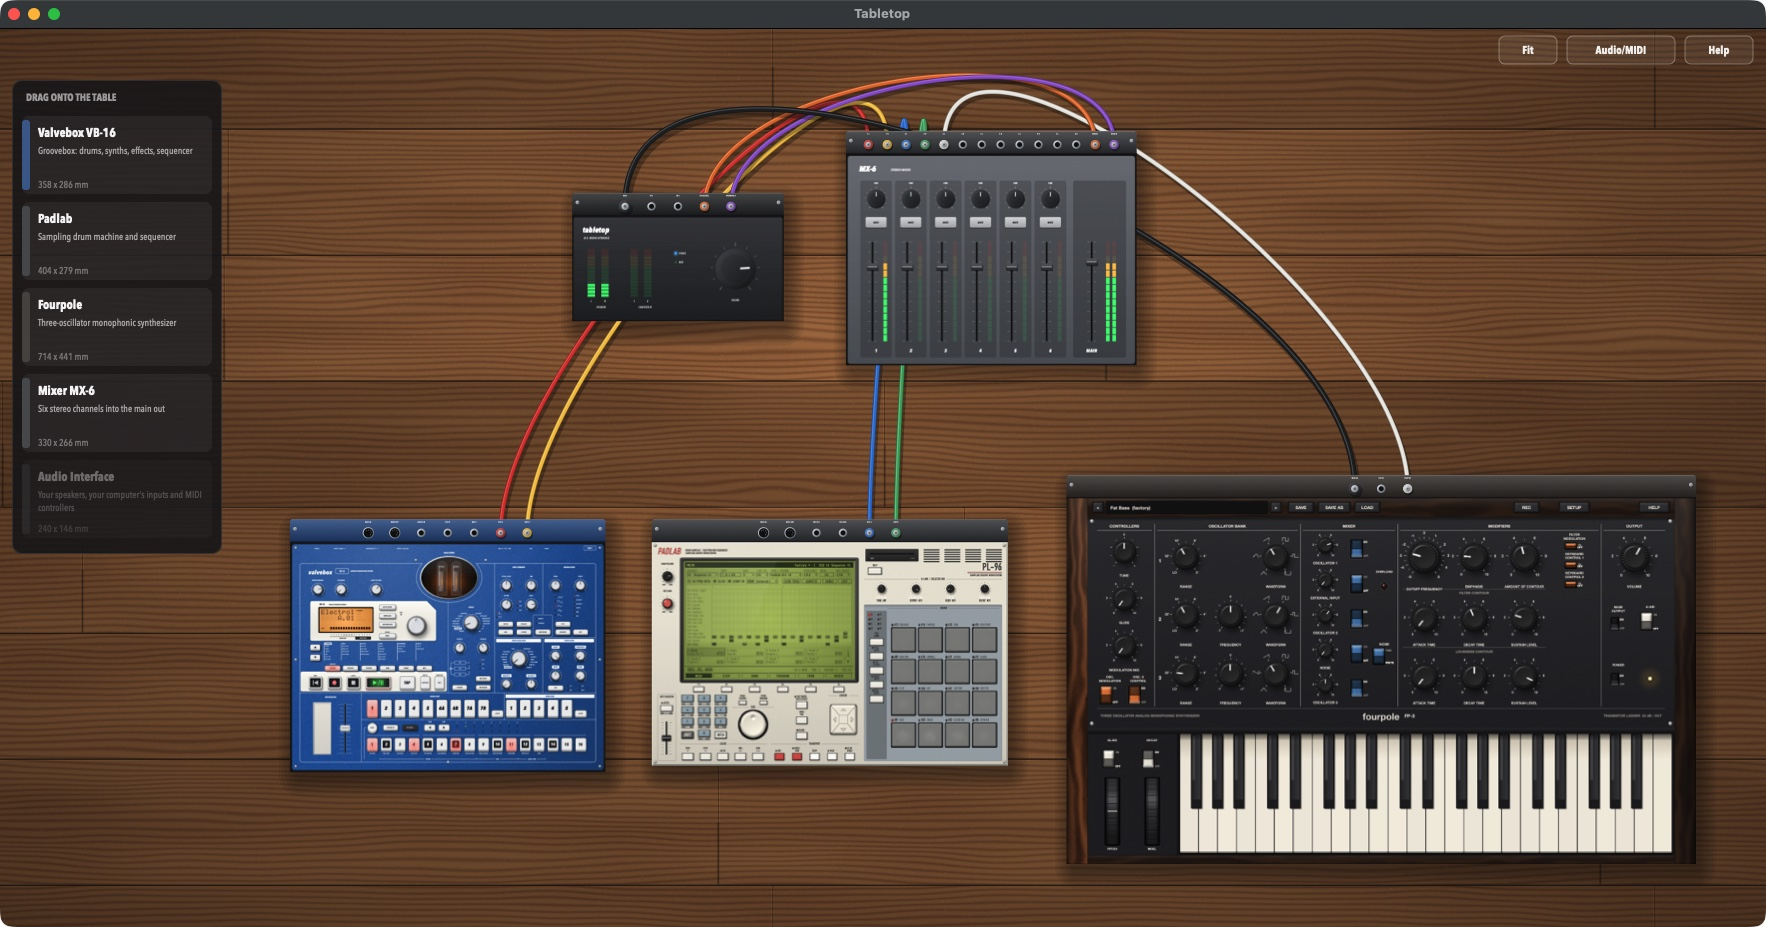
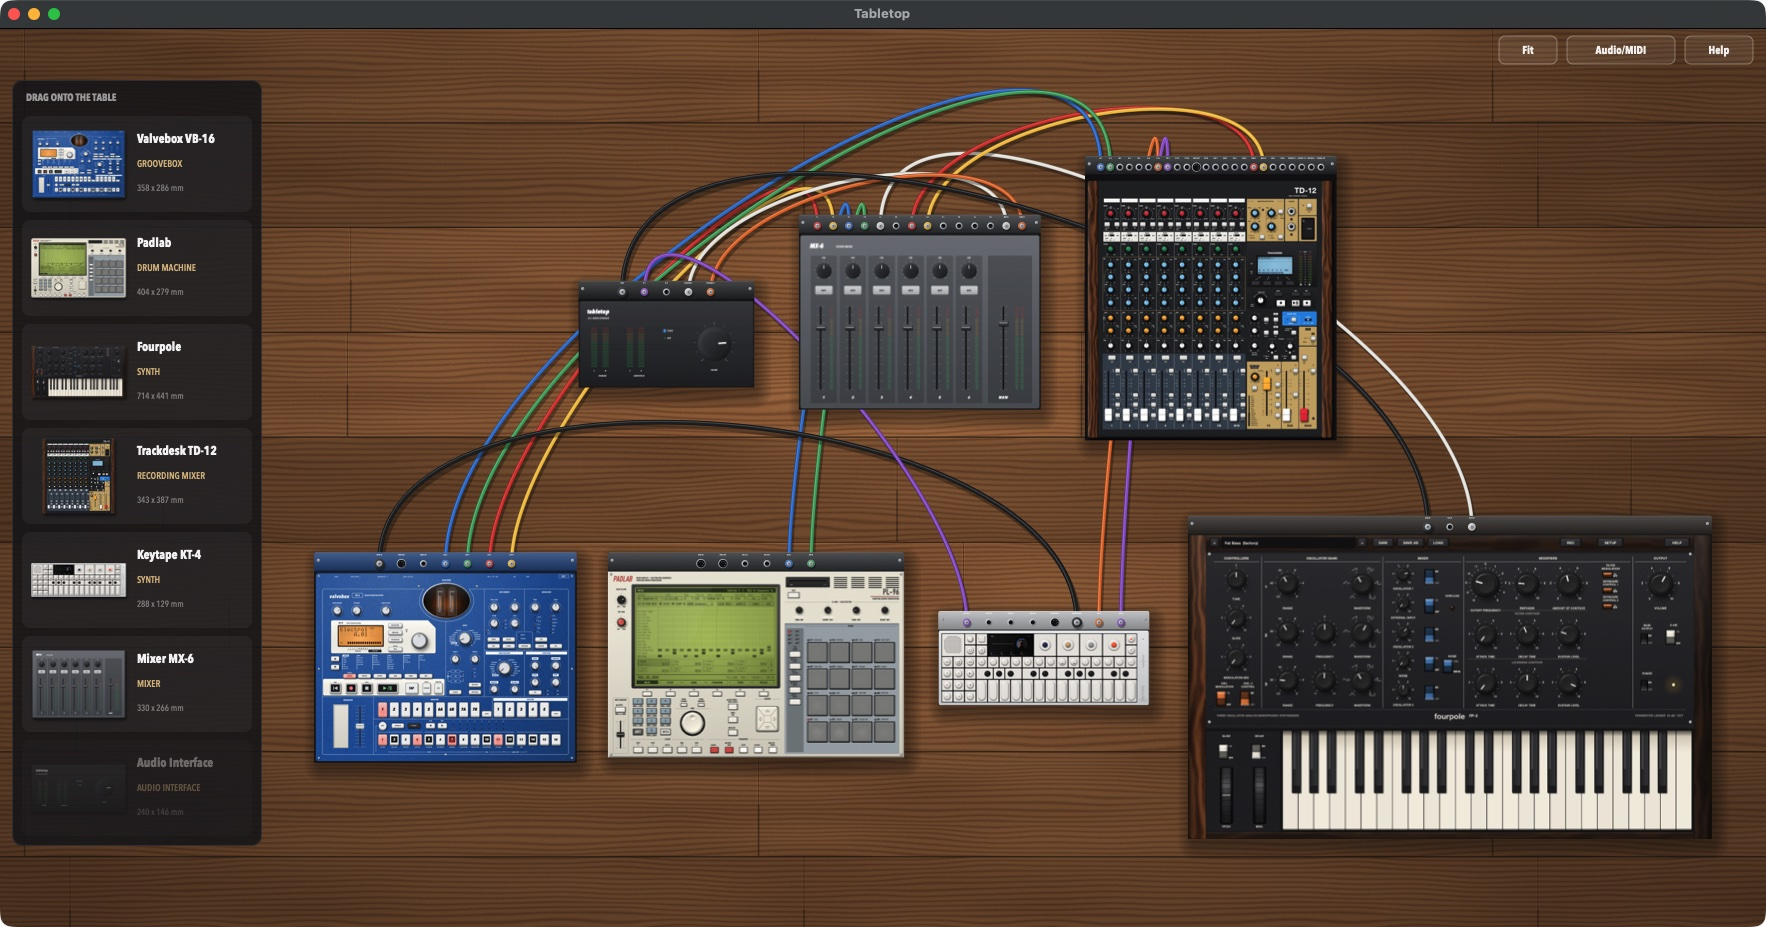
New pictures for the README: all seven devices, and playing Keytape
The table picture shows every device cabled up, with Trackdesk and Keytape
on it. The close-up flies in to Keytape. TABLETOP_FOCUS (a testing aid,
like TABLETOP_OPEN) flies in after launch, so the pictures can be taken
again. The device repositories are public now, so the README no longer asks
for access to them.

diff --git a/src/ui/MainComponent.cpp b/src/ui/MainComponent.cpp
@@ -197,6 +197,16 @@ MainComponent::MainComponent()
     updateTitle();
     shelf.refresh (session);
     startTimer (60 * 1000);
+    if (auto* focus = std::getenv ("TABLETOP_FOCUS")) // testing aid: fly in to the first device of a type ("keytape")
+        juce::Timer::callAfterDelay (1500, [safe = juce::Component::SafePointer<MainComponent> (this), type = juce::String (focus)] {
+            if (safe != nullptr)
+                for (auto& d : safe->session.getDevices())
+                    if (d.type->id == type)
+                    {
+                        safe->table.focusOn (d.uid);
+                        break;
+                    }
+        });
     if (auto* report = std::getenv ("TABLETOP_SELFTEST"))
         juce::Timer::callAfterDelay (1500, [safe = juce::Component::SafePointer<MainComponent> (this), f = juce::File (report)] {
             if (safe != nullptr)

diff --git a/README.md b/README.md
@@ -12,9 +12,9 @@ Zoom out to see the whole setup. Double-click a device and the view flies in, so
 
 C++20 / JUCE 8, macOS (Apple Silicon tested). Each device lives in its own repository and is built into Tabletop from there. More devices will follow the same pattern.
 
-![The table: Valvebox, Padlab and Fourpole cabled into the mixer and the audio interface](docs/tabletop.jpg)
+![The table: Valvebox, Padlab, Keytape and Fourpole in front; the audio interface, the mixer and Trackdesk behind, all cabled up](docs/tabletop.jpg)
 
-![Zoomed in on the Valvebox to play it, its jacks along the back](docs/tabletop-playing.jpg)
+![Zoomed in on Keytape to play it, its jacks along the back](docs/tabletop-playing.jpg)
 
 ## Build & run
 
@@ -22,7 +22,7 @@ C++20 / JUCE 8, macOS (Apple Silicon tested). Each device lives in its own repos
 
 - **Xcode Command Line Tools**: `xcode-select --install`
 - **CMake 3.22+ and Ninja**, e.g. `brew install cmake ninja`
-- Access to the device repositories on GitHub (they're git submodules).
+- Nothing else: the device repositories are public, and `bootstrap.sh` fetches them (they're git submodules).
 
 ### Build
 
@@ -134,6 +134,7 @@ Other testing aids:
 - `TABLETOP_NO_AUTOSAVE=1` leaves your saved table alone.
 - `TABLETOP_OPEN=/path.tabletop` opens a table at launch.
 - `TABLETOP_WINDOW_SIZE=WxH` forces a window size.
+- `TABLETOP_FOCUS=keytape` flies in to the first device of that type after launch (for pictures).
 - `TABLETOP_RENDER_SHELF=assets/shelf` renders the shelf's pictures again from the devices' real panels, then quits. Do this after a device's look changes, and commit the PNG files. They're built into the app.
 
 Each device's own tests live in its repository.
